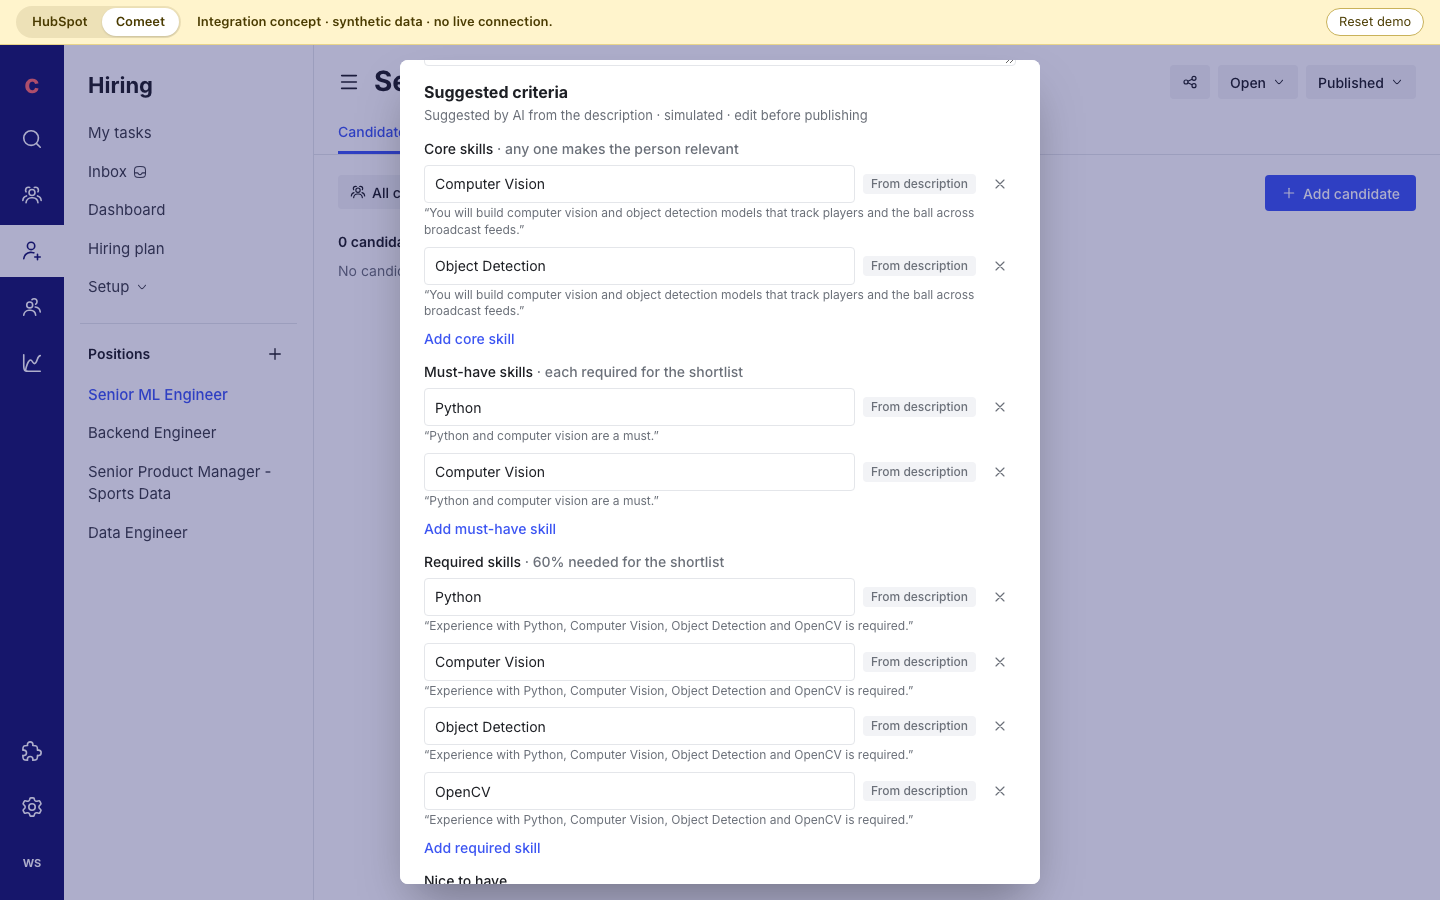
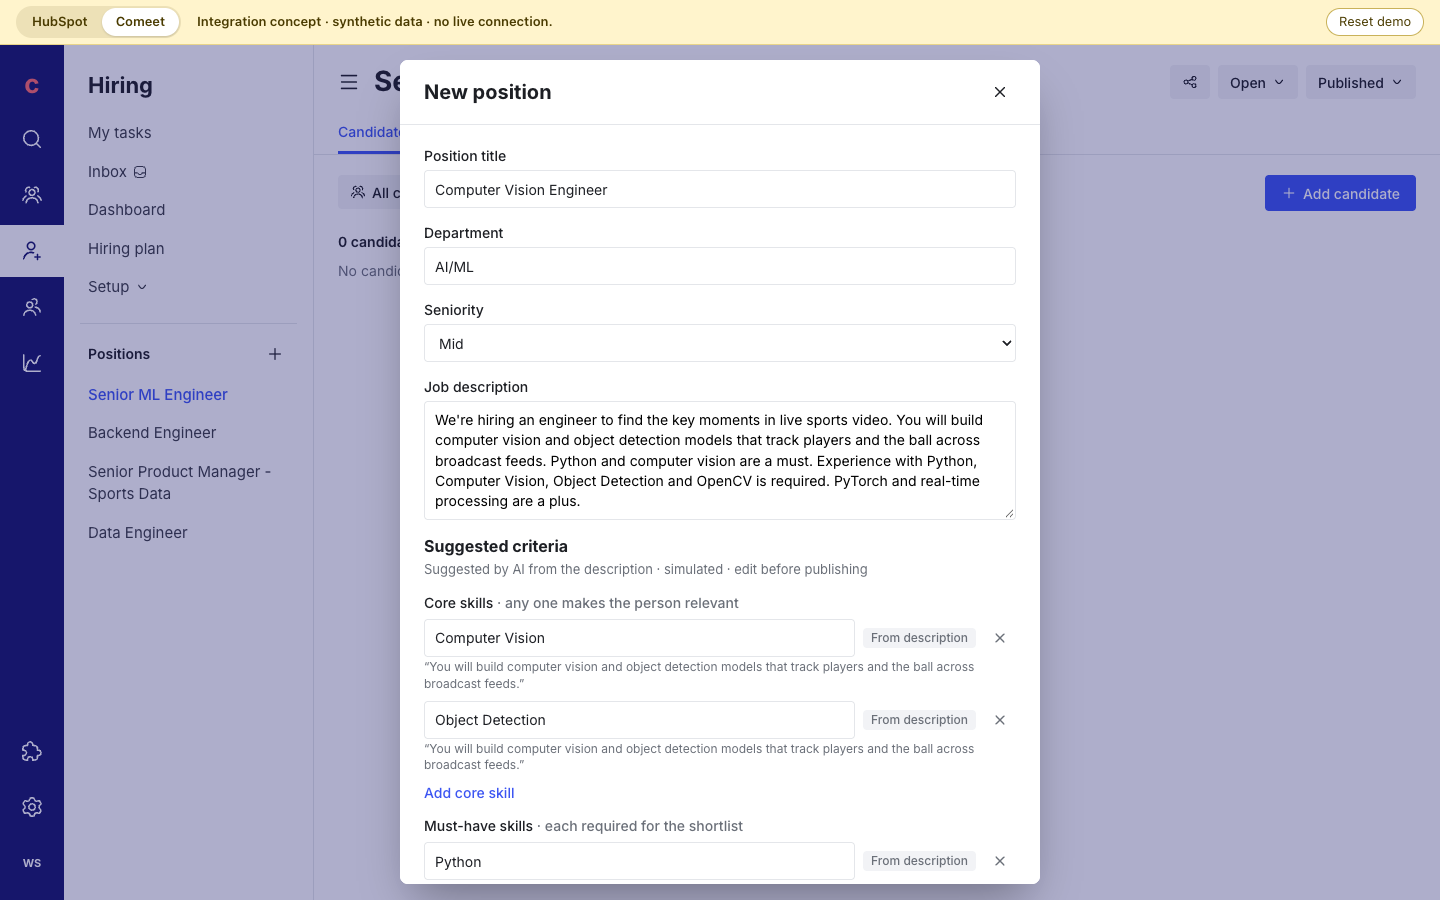
Refresh walkthrough screenshots after the review fixes

Changed region(s): [[0.2812, 0.0933, 0.6875, 0.9956]]

diff --git a/integration-demo/README.md b/integration-demo/README.md
@@ -15,7 +15,7 @@ npx playwright test --project integration-demo
    ![Morning notification](../docs/screenshots/integration-1-hubspot-morning.png)
 2. **Shortlist and Needs review.** **View results** opens the Senior ML Engineer view on **Shortlist (6)**, with rank, fit reason, WSC connections, outreach for that role and Comeet status. A shortlist reason is short ("Must-haves met · 4/5 listed skills · 7 years reported; experience needs confirmation"); the full evidence is on the contact's card. **Needs review (6)** switches the same view to the people a recruiter should check. Every open role has its own tab (Senior Product Manager - Sports Data: 0 shortlist, 5 needs review), and returning from a contact keeps the group you were on.
    ![Shortlist](../docs/screenshots/integration-2-hubspot-shortlist.png)
-3. **Contact record.** Open **Priya Anand**. **Key information** shows Contact owner Unassigned, Contact type Talent lead, Lifecycle stage Lead and Marketing contact status Non-marketing contact; **About this contact** shows a simulated numeric Record ID with "Source ID: HS002" beneath it, and City and Country/Region as separate fields. The **Talent match** app card in the Overview tab shows the Role selector with "Recruiter for this role: Neta Harel" (switch **Role** and the name follows the role: Gal Ofer for Backend Engineer, Ronit Sela for Senior Product Manager, Amit Sasson for Data Engineer). Below are the recommendation, required skills on the profile, matched evidence, what is not confirmed, and one list of WSC people: "Connection" for a listed mutual connection, "Same company, 2y overlap" for someone who shared an employer at overlapping dates (that does not prove they worked together). The assessment version ("JOB001 · rules-v4") is behind **Details**. Outreach from the recruiter app appears in **Recent activities** as HubSpot logs it: a sent invite is a logged email, a draft is a note, a reference request is a task. Each **Event attendance** there shows the person's relevance to that event's topic (for example "Relevance to event topic (Sports Technology & Analytics): Relevant" for Jack Thomas); that is not a job verdict, which is the card's **Recommendation** for the selected role. **Last contacted** changes only for a sent invite. Noah Anderson shows the seeded example: declined Backend Engineer, still open on the Data Engineer shortlist. **Emily Carter** (Senior ML Engineer, Needs review) is the seeded customer contact: Contact owner "Marketing · Noa Peretz", Contact type "Customer contact · Talent lead", Lifecycle stage Customer, Marketing contact.
+3. **Contact record.** Open **Priya Anand**. **Key information** shows Contact owner Unassigned, Contact type Talent lead, Lifecycle stage Lead and Marketing contact status Non-marketing contact; **About this contact** shows a simulated numeric Record ID with Source ID "HS002" beneath it, and City and Country/Region as separate fields. The **Talent match** app card in the Overview tab shows the Role selector with "Recruiter for this role: Neta Harel" (switch **Role** and the name follows the role: Gal Ofer for Backend Engineer, Ronit Sela for Senior Product Manager, Amit Sasson for Data Engineer). Below are the recommendation, required skills on the profile, matched evidence, what is not confirmed, and one list of WSC people: "Connection" for a listed mutual connection, "Same company, 2y overlap" for someone who shared an employer at overlapping dates (that does not prove they worked together). The assessment version ("JOB001 · rules-v4") is behind **Details**. Outreach from the recruiter app appears in **Recent activities** as HubSpot logs it: a sent invite is a logged email, a draft is a note, a reference request is a task. Each **Event attendance** there shows the person's relevance to that event's topic (for example "Relevance to event topic (Sports Technology & Analytics): Relevant" for Jack Thomas); that is not a job verdict, which is the card's **Recommendation** for the selected role. **Last contacted** changes only for a sent invite. Noah Anderson shows the seeded example: declined Backend Engineer, still open on the Data Engineer shortlist. **Emily Carter** (Senior ML Engineer, Needs review) is the seeded customer contact: Contact owner "Marketing · Noa Peretz", Contact type "Customer contact · Talent lead", Lifecycle stage Customer, Marketing contact.
    ![Contact card](../docs/screenshots/integration-3-hubspot-contact-card.png)
 4. **Handoff.** **Add to Comeet** previews what will be sent, including Prospect status Sourced and "Owner in Comeet: Neta Harel", the role's recruiter. Nothing is sent until **Confirm**, and no email goes out.
    ![Handoff review](../docs/screenshots/integration-4-handoff-review.png)
@@ -27,7 +27,7 @@ npx playwright test --project integration-demo
    ![Import preview](../docs/screenshots/integration-7-import-preview.png)
 8. **New role.** In Comeet, **+** next to Positions opens **New position**: title, department, seniority and a job description, prefilled with a Computer Vision Engineer example. Under **Suggested criteria** ("Suggested by AI from the description · simulated · edit before publishing") are four editable lists: Core skills (any one makes the person relevant), Must-have skills (each required for the shortlist), Required skills (60% needed for the shortlist) and Nice to have. Each row quotes the sentence behind it and is labelled "From description" or "AI suggestion" (Pose Estimation, inferred from "track players and the ball"). The suggestions are scripted, not a live model. Edit, remove or add rows, then **Publish position**; the confirmed lists become the role's criteria. Publishing is never blocked: with no core skills left, the dialog warns that any required skill will count (provisional). The new position's recruiter is you, the signed-in user.
    ![New position criteria](../docs/screenshots/integration-8-comeet-new-position.png)
-9. **New role in HubSpot.** Publishing scores the whole pool for the confirmed criteria. HubSpot gets a notification with that role's counts and a new saved view. The prefilled example as suggested gives 1 shortlist, 9 needs review and 65 not recommended, and each review reason names the gap ("Only 2 of 4 required skills on the profile (needs 3)"). For an unrelated role, change the title to "Site Reliability Engineer" and paste an SRE description (the one in `tests/role-examples.ts` suggests core Kubernetes, Terraform, CI/CD and Monitoring and must-have AWS): as suggested it gives 9 shortlist, 4 needs review, 62 not recommended ([rules](../docs/scoring.md#the-shortlist-checks)).
+9. **New role in HubSpot.** Publishing scores the whole pool for the confirmed criteria. HubSpot gets a notification with that role's counts and a new saved view. The prefilled example as suggested gives 1 shortlist, 9 needs review and 65 not recommended, and each review reason names the gap ("2 of 4 required skills on the profile (needs 3)"). For an unrelated role, change the title to "Site Reliability Engineer" and paste an SRE description (the one in `tests/role-examples.ts` suggests core Kubernetes, Terraform, CI/CD and Monitoring and must-have AWS): as suggested it gives 9 shortlist, 4 needs review, 62 not recommended ([rules](../docs/scoring.md#the-shortlist-checks)).
    ![New role's review queue](../docs/screenshots/integration-9-hubspot-new-role.png)
 
 **Reset demo** starts the session over: it discards imported contacts, positions added in Comeet, handed-off Comeet records and notifications. Imported contacts also go away when the page is reloaded. Reset demo does not clear the saved outreach history this browser keeps (that needs the site's data cleared; see [identity and history](../docs/additional-info/identity-and-history.md#stored-state-version-and-upgrade)).
